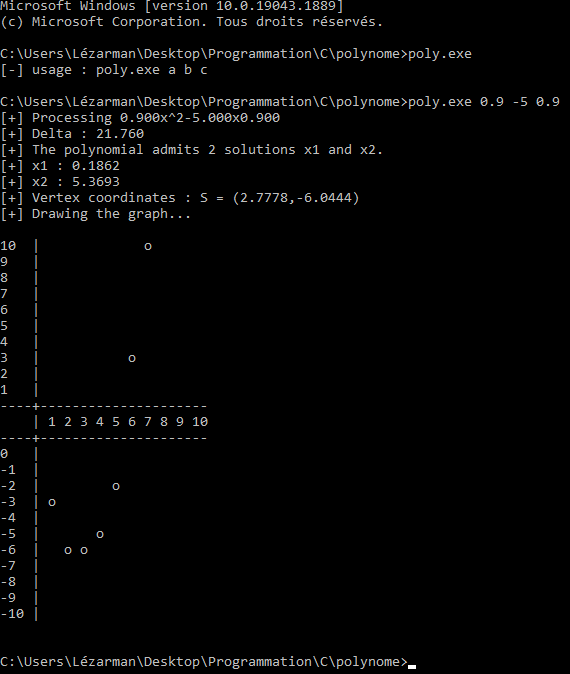
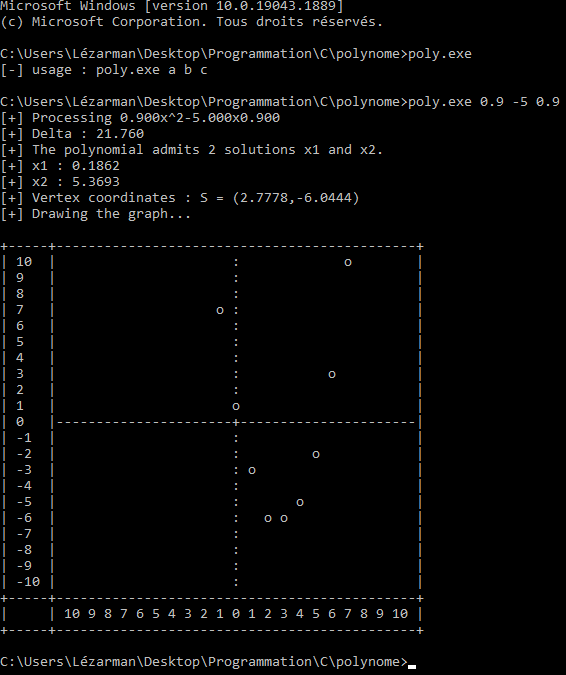
bigger graph !

diff --git a/polynome.c b/polynome.c
@@ -66,52 +66,33 @@ enum STATUS Dessiner_Graph(Poly* poly) {
     }
 
     printf("\n");
-    for (int j = LONGUEUR_Y; j >= 1; j--) {
-
-        if (j == 10) {
-            printf("%d  | ",j);
-        }
-        else {
-            printf("%d   | ",j);
-        }
-
-        for (int i = 1; i <= LONGUEUR_X; i++) {
-            float y;
-            if (Calcul_Fonction(poly, i, &y) == FAIL) {
-                return FAIL;
-            }
-
-            if (roundf(y) == j) {
-                printf("o ");
-            }
-            else {
-                printf("  ");
-            }
-        }
-        printf("\n");
-    }
-
-    //          | 1 2 3 4 5 6 7 8 9 10
-    printf("----+---------------------\n");
-    printf("    | ");
-    for (int k = 1; k <= LONGUEUR_Y; k++) {
-        printf("%d ",k);
-    }
-    printf("\n----+---------------------\n");
-
-    for (int j = 0; j >= -LONGUEUR_Y; j--) {
+    printf("+-----+---------------------------------------------+\n");
+    for (int j = LONGUEUR_Y; j >= -LONGUEUR_Y; j--) {
 
         if (j == -10) {
-            printf("%d | ",j);
+            printf("| %d |  ",j);
+        }
+        else if (j == 10 || j < 0) {
+            printf("| %d  |  ",j);
         }
         else if (j == 0) {
-            printf("%d   | ",j);
+            printf("| %d   |--",j);
         }
         else {
-            printf("%d  | ",j);
+            printf("| %d   |  ",j);
         }
 
-        for (int i = 1; i <= LONGUEUR_X; i++) {
+        for (int i = -LONGUEUR_X; i <= LONGUEUR_X+1; i++) {
+            if (i > LONGUEUR_X) {
+                if (j == 0) {
+                    printf("-|");
+                }
+                else {
+                    printf(" |");
+                }
+                continue;
+            }
+
             float y;
             if (Calcul_Fonction(poly, i, &y) == FAIL) {
                 return FAIL;
@@ -120,14 +101,33 @@ enum STATUS Dessiner_Graph(Poly* poly) {
             if (roundf(y) == j) {
                 printf("o ");
             }
-            else {
+            else if (i == 0) {
+                if (j == 0) {
+                    printf("+-");
+                }
+                else {
+                    printf(": ");
+                }
+            }
+            else if (roundf(y) != j && j != 0) {
                 printf("  ");
+            }
+            else {
+                printf("--");
             }
         }
         printf("\n");
     }
 
-    printf("\n");
+    //            |  10 9 8 7 6 5 4 3 2 1 0 1 2 3 4 5 6 7 8 9 10
+    printf("+-----+---------------------------------------------+\n");
+    printf("|     | ");
+    for (int k = -LONGUEUR_Y; k <= LONGUEUR_Y; k++) {
+        printf("%d ",abs(k));
+    }
+    printf("|\n");
+    printf("+-----+---------------------------------------------+\n");
+
     return OK;
 }
 
